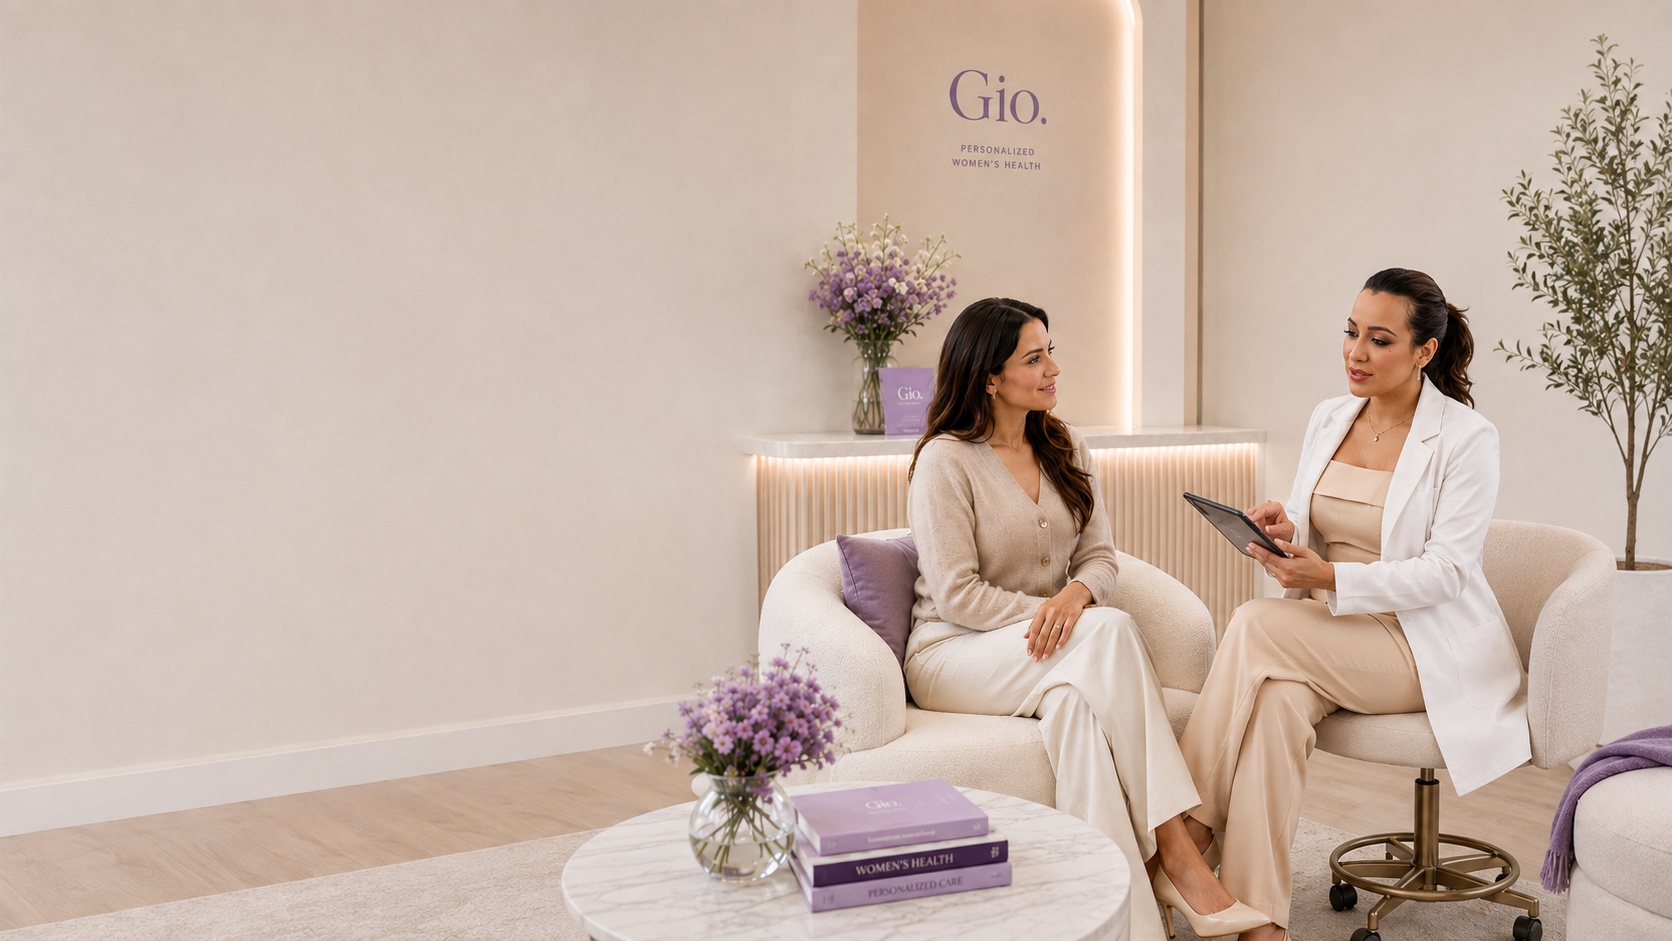
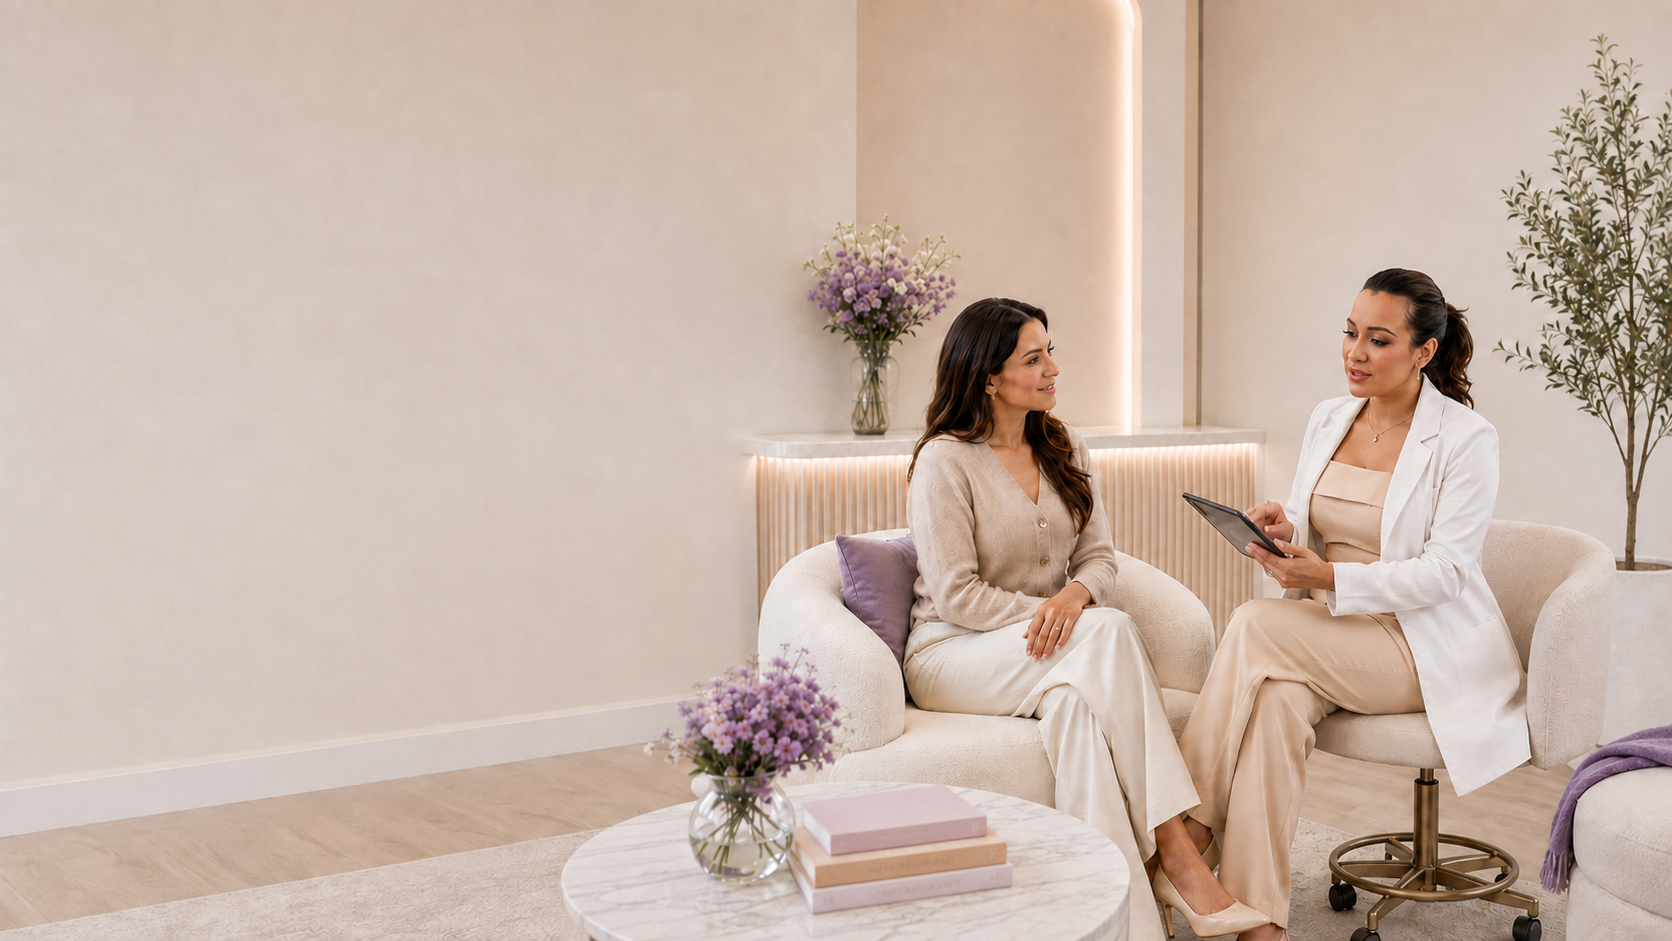
Atualiza conteúdo e imagens da landing page

diff --git a/app/GioLandingPage.tsx b/app/GioLandingPage.tsx
@@ -12,7 +12,6 @@ import {
   HeartPulse,
   MapPin,
   Menu,
-  Send,
   ShieldCheck,
   Sparkles,
   Syringe,
@@ -20,7 +19,7 @@ import {
   X,
 } from "lucide-react";
 import { FaWhatsapp } from "react-icons/fa";
-import { FormEvent, useEffect, useRef, useState } from "react";
+import { useEffect, useRef, useState } from "react";
 import {
   audienceItems,
   cycleSteps,
@@ -52,36 +51,14 @@ const protocolIcons = {
 
 const teamAreaIcons = [Brain, Apple, Dumbbell, Sparkles] as const;
 
-type FormErrors = Partial<
-  Record<"name" | "phone" | "difficulty" | "consent", string>
->;
-
-type FormStatus = "idle" | "submitting" | "success" | "error";
-
-function formatPhone(value: string) {
-  const digits = value.replace(/\D/g, "").slice(0, 11);
-  if (digits.length <= 2) return digits;
-  if (digits.length <= 7) return `(${digits.slice(0, 2)}) ${digits.slice(2)}`;
-  if (digits.length <= 10) {
-    return `(${digits.slice(0, 2)}) ${digits.slice(2, 6)}-${digits.slice(6)}`;
-  }
-  return `(${digits.slice(0, 2)}) ${digits.slice(2, 7)}-${digits.slice(7)}`;
-}
-
 export default function GioLandingPage() {
   const [menuOpen, setMenuOpen] = useState(false);
   const [scrolled, setScrolled] = useState(false);
-  const [formVisible, setFormVisible] = useState(false);
   const [contextualActionsVisible, setContextualActionsVisible] = useState(false);
   const [heroActionsVisible, setHeroActionsVisible] = useState(true);
-  const [phone, setPhone] = useState("");
-  const [errors, setErrors] = useState<FormErrors>({});
-  const [formStatus, setFormStatus] = useState<FormStatus>("idle");
   const heroActionsRef = useRef<HTMLDivElement | null>(null);
   const packageSectionRef = useRef<HTMLElement | null>(null);
   const clinicSectionRef = useRef<HTMLElement | null>(null);
-  const formSectionRef = useRef<HTMLElement | null>(null);
-  const formStartedRef = useRef(false);
 
   useEffect(() => {
     const onScroll = () => setScrolled(window.scrollY > 24);
@@ -120,16 +97,6 @@ export default function GioLandingPage() {
   }, [menuOpen]);
 
   useEffect(() => {
-    if (!formSectionRef.current) return;
-    const observer = new IntersectionObserver(
-      ([entry]) => setFormVisible(entry.isIntersecting),
-      { threshold: 0.15 },
-    );
-    observer.observe(formSectionRef.current);
-    return () => observer.disconnect();
-  }, []);
-
-  useEffect(() => {
     const heroActions = heroActionsRef.current;
     if (!heroActions) return;
     const observer = new IntersectionObserver(
@@ -166,57 +133,6 @@ export default function GioLandingPage() {
 
   function handleWhatsAppClick(location: string) {
     trackEvent("whatsapp_click", { location });
-  }
-
-  async function handleSubmit(event: FormEvent<HTMLFormElement>) {
-    event.preventDefault();
-    const formElement = event.currentTarget;
-    const form = new FormData(formElement);
-    const values = {
-      name: String(form.get("name") ?? "").trim(),
-      phone: String(form.get("phone") ?? "").replace(/\D/g, ""),
-      difficulty: String(form.get("difficulty") ?? "").trim(),
-      consent: form.get("consent") === "on",
-      website: String(form.get("website") ?? "").trim(),
-    };
-
-    const nextErrors: FormErrors = {};
-    if (values.name.length < 3) nextErrors.name = "Informe seu nome completo.";
-    if (values.phone.length < 10) nextErrors.phone = "Informe um WhatsApp válido com DDD.";
-    if (!values.difficulty) nextErrors.difficulty = "Conte brevemente sua principal dificuldade.";
-    if (!values.consent) nextErrors.consent = "Você precisa autorizar o contato da equipe.";
-
-    setErrors(nextErrors);
-    setFormStatus("idle");
-    if (Object.keys(nextErrors).length > 0) {
-      window.requestAnimationFrame(() => {
-        formElement.querySelector<HTMLElement>("[aria-invalid='true']")?.focus();
-      });
-      return;
-    }
-
-    setFormStatus("submitting");
-
-    try {
-      const response = await fetch("/api/lead", {
-        method: "POST",
-        headers: { "Content-Type": "application/json" },
-        body: JSON.stringify(values),
-      });
-
-      if (!response.ok) {
-        throw new Error("Lead submission failed");
-      }
-
-      trackEvent("lead_form_submit", { location: "lead_form" });
-      formElement.reset();
-      setPhone("");
-      setErrors({});
-      setFormStatus("success");
-      formStartedRef.current = false;
-    } catch {
-      setFormStatus("error");
-    }
   }
 
   return (
@@ -693,7 +609,7 @@ export default function GioLandingPage() {
 
             <aside className="package-offer" aria-label="Investimento no protocolo">
               <p className="package-offer-title">Investimento</p>
-              <strong className="package-price">Sob consulta</strong>
+              <strong className="package-price">Sob agendamento</strong>
               <p className="package-payment">
                 Receba valores e condições antes de decidir.
               </p>
@@ -1109,84 +1025,6 @@ export default function GioLandingPage() {
           </div>
         </section>
 
-        <section id="contato" className="lead-section section-pad" ref={formSectionRef}>
-          <div className="shell lead-grid">
-            <div className="lead-copy">
-              <h2>Descubra se o protocolo pode ser adequado para você.</h2>
-              <p>
-                Preencha seus dados para receber o contato da equipe pelo WhatsApp.
-              </p>
-              <div className="lead-security">
-                <ShieldCheck aria-hidden="true" />
-                <span>O preenchimento não representa indicação, prescrição nem contratação.</span>
-              </div>
-            </div>
-
-            <form
-              className="lead-form"
-              onSubmit={handleSubmit}
-              onFocusCapture={() => {
-                if (formStatus === "success" || formStatus === "error") {
-                  setFormStatus("idle");
-                }
-                if (formStartedRef.current) return;
-                formStartedRef.current = true;
-                trackEvent("lead_form_start", { location: "lead_form" });
-              }}
-              noValidate
-            >
-              <div className="field field-wide">
-                <label htmlFor="name">Nome completo</label>
-                <input id="name" name="name" type="text" autoComplete="name" aria-invalid={Boolean(errors.name)} aria-describedby={errors.name ? "name-error" : undefined} />
-                {errors.name && <span id="name-error" className="field-error">{errors.name}</span>}
-              </div>
-              <div className="field field-wide">
-                <label htmlFor="phone">WhatsApp</label>
-                <input id="phone" name="phone" type="tel" inputMode="tel" autoComplete="tel" value={phone} onChange={(event) => setPhone(formatPhone(event.target.value))} placeholder="(27) 99999-9999" aria-invalid={Boolean(errors.phone)} aria-describedby={errors.phone ? "phone-error" : undefined} />
-                {errors.phone && <span id="phone-error" className="field-error">{errors.phone}</span>}
-              </div>
-              <div className="field field-wide">
-                <label htmlFor="difficulty">Qual é sua principal dificuldade atualmente?</label>
-                <textarea id="difficulty" name="difficulty" rows={4} placeholder="Conte brevemente o que mais dificulta seu processo hoje" aria-invalid={Boolean(errors.difficulty)} aria-describedby={errors.difficulty ? "difficulty-error" : undefined} />
-                {errors.difficulty && <span id="difficulty-error" className="field-error">{errors.difficulty}</span>}
-              </div>
-              <div className="form-honeypot" aria-hidden="true">
-                <label htmlFor="website">Deixe este campo vazio</label>
-                <input id="website" name="website" type="text" tabIndex={-1} autoComplete="off" />
-              </div>
-              <div className="consent field-wide">
-                <input id="consent" name="consent" type="checkbox" aria-invalid={Boolean(errors.consent)} aria-describedby={errors.consent ? "consent-error" : "consent-help"} />
-                <label htmlFor="consent" id="consent-help">
-                  Concordo em ser contatado pela equipe da Gio Estética Avançada Praia da Costa e declaro estar
-                  ciente da Política de Privacidade.
-                </label>
-                {errors.consent && <span id="consent-error" className="field-error">{errors.consent}</span>}
-              </div>
-              <button
-                className="button form-submit field-wide"
-                type="submit"
-                disabled={formStatus === "submitting"}
-                aria-busy={formStatus === "submitting"}
-              >
-                {formStatus === "submitting" ? "Enviando..." : "Enviar meus dados"}
-                <Send aria-hidden="true" />
-              </button>
-              {formStatus === "success" && (
-                <div className="form-feedback form-feedback-success field-wide" role="status" aria-live="polite">
-                  Dados enviados. A equipe da Gio entrará em contato pelo WhatsApp informado.
-                </div>
-              )}
-              {formStatus === "error" && (
-                <div className="form-feedback form-feedback-error field-wide" role="alert">
-                  Não foi possível enviar agora. Tente novamente ou{" "}
-                  <a href={whatsappHref} target="_blank" rel="noreferrer">
-                    fale com a equipe pelo WhatsApp
-                  </a>.
-                </div>
-              )}
-            </form>
-          </div>
-        </section>
       </main>
 
       <footer className="site-footer">
@@ -1213,7 +1051,7 @@ export default function GioLandingPage() {
         </div>
       </footer>
 
-      {!formVisible && !contextualActionsVisible && !heroActionsVisible && (
+      {!contextualActionsVisible && !heroActionsVisible && (
         <a
           className="floating-whatsapp"
           href={whatsappHref}
@@ -1227,7 +1065,7 @@ export default function GioLandingPage() {
         </a>
       )}
 
-      {!formVisible && !contextualActionsVisible && !heroActionsVisible && (
+      {!contextualActionsVisible && !heroActionsVisible && (
         <a
           className="mobile-fixed-cta"
           href={whatsappHref}

diff --git a/app/page.tsx b/app/page.tsx
@@ -12,13 +12,20 @@ export async function generateMetadata(): Promise<Metadata> {
   const ogImage = host ? `${protocol}://${host}/og.png` : undefined;
 
   return {
-    title: { absolute: "Emagrecimento Multidisciplinar | Gio Praia da Costa" },
+    title: { absolute: "Estética Avançada | Protocolo de Emagrecimento" },
     description:
-      "Conheça o Método Gio Integrado: um plano personalizado que conecta cuidado médico, nutrição, psicologia, atividade física e estética na Praia da Costa.",
+      "Conheça o protocolo de emagrecimento da Gio: um plano personalizado que conecta cuidado médico, nutrição, psicologia, atividade física e estética na Praia da Costa.",
+    keywords: [
+      "estética avançada",
+      "protocolo de emagrecimento",
+      "emagrecimento multidisciplinar",
+      "emagrecimento na Praia da Costa",
+      "emagrecimento em Vila Velha",
+    ],
     openGraph: {
-      title: "Emagrecimento Multidisciplinar | Gio Praia da Costa",
+      title: "Estética Avançada | Protocolo de Emagrecimento",
       description:
-        "Emagrecer pode ser mais leve quando você não precisa fazer tudo sozinho. Conheça o Método Gio Integrado.",
+        "Um plano personalizado de emagrecimento com acompanhamento médico e diferentes áreas de cuidado.",
       type: "website",
       locale: "pt_BR",
       siteName: "Gio Estética Avançada Praia da Costa",
@@ -28,9 +35,9 @@ export async function generateMetadata(): Promise<Metadata> {
     },
     twitter: {
       card: "summary_large_image",
-      title: "Emagrecimento Multidisciplinar | Gio Praia da Costa",
+      title: "Estética Avançada | Protocolo de Emagrecimento",
       description:
-        "Um plano personalizado com diferentes áreas de cuidado conectadas na Praia da Costa.",
+        "Protocolo personalizado com diferentes áreas de cuidado na Praia da Costa.",
       ...(ogImage ? { images: [ogImage] } : {}),
     },
   };

diff --git a/app/layout.tsx b/app/layout.tsx
@@ -23,11 +23,11 @@ const body = Manrope({
 export const metadata: Metadata = {
   metadataBase: new URL(siteConfig.canonicalUrl),
   title: {
-    default: "Gio Estética Avançada Praia da Costa",
+    default: "Estética Avançada | Protocolo de Emagrecimento",
     template: "%s | Gio Praia da Costa",
   },
   description:
-    "Método de emagrecimento multidisciplinar com plano personalizado na Praia da Costa, Vila Velha.",
+    "Protocolo de emagrecimento personalizado com acompanhamento médico e diferentes áreas de cuidado na Praia da Costa, Vila Velha.",
   robots: {
     index: true,
     follow: true,

diff --git a/app/ui-refinements.css b/app/ui-refinements.css
@@ -1359,7 +1359,7 @@ body .clinic-showcase::before {
   z-index: 0;
   inset: 0 auto 0 0;
   width: 58%;
-  background: url("/images/gio/fachada-clinica.png") 68% center / cover no-repeat;
+  background: url("/images/gio/clinic-interior.jpeg") 68% center / cover no-repeat;
   pointer-events: none;
 }
 
